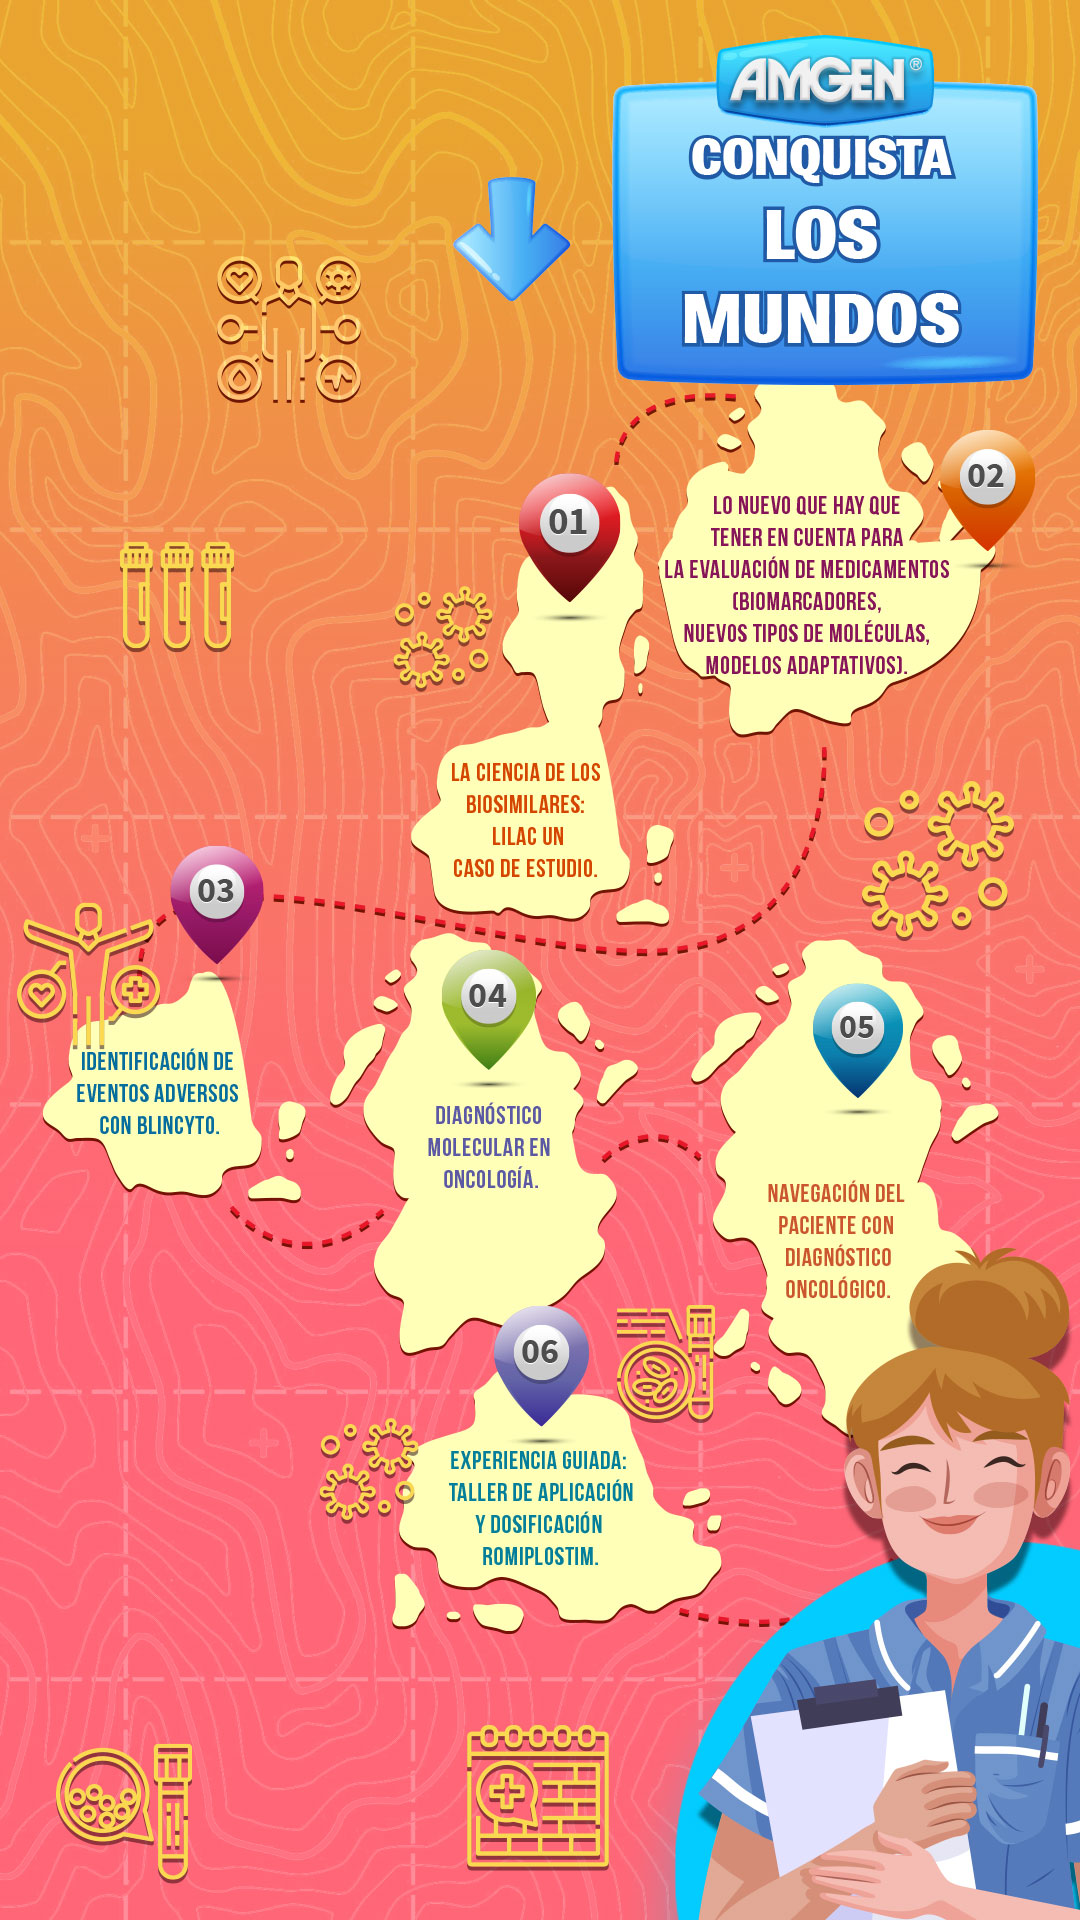
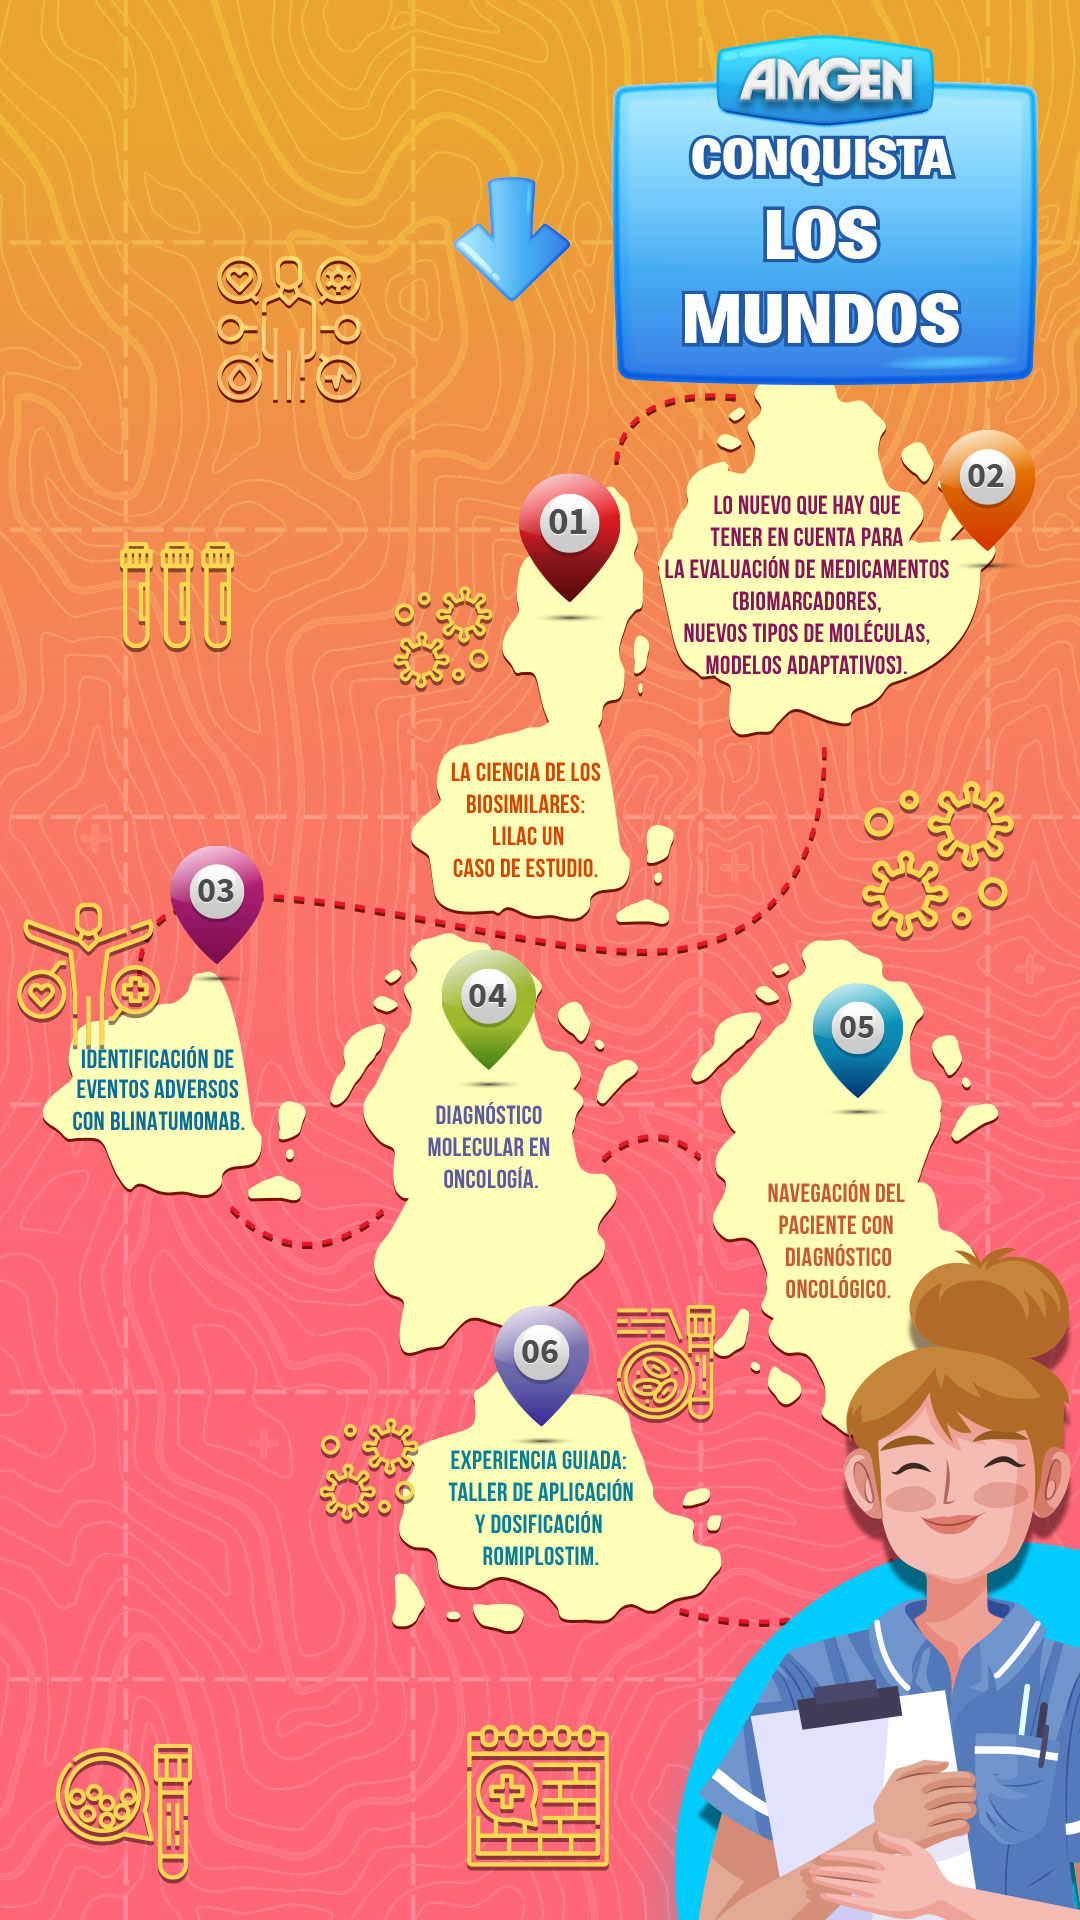
Actualizacion nombre nivel

diff --git a/HTML/Lobby.html b/HTML/Lobby.html
@@ -19,7 +19,7 @@
     <div style="height:1vh;"></div>
     <a id="level3" class="ContenedorSeleccionNivel">
         <div class="BotonSeleccionNivel">NIVEL 03<br>
-            <span>Identificación de eventos adversos con Blincyto.</span>
+            <span>Identificación de eventos adversos con Blinatumomab.</span>
         </div>
     </a>
     <div style="height:1vh;"></div>
